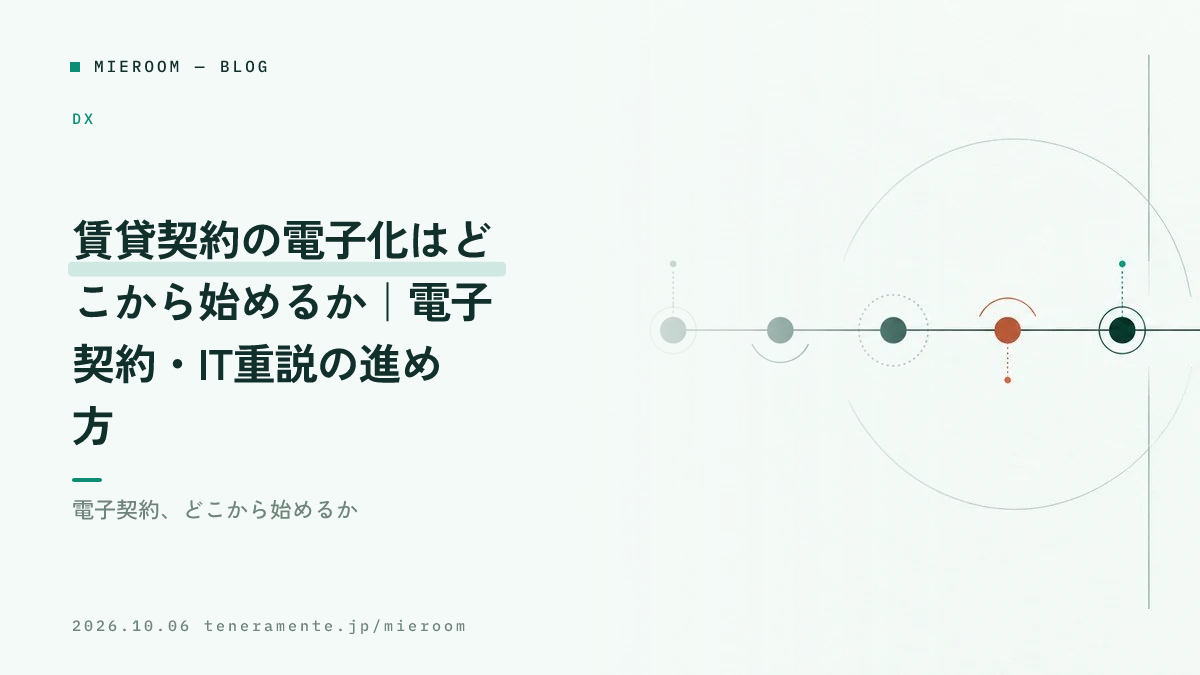
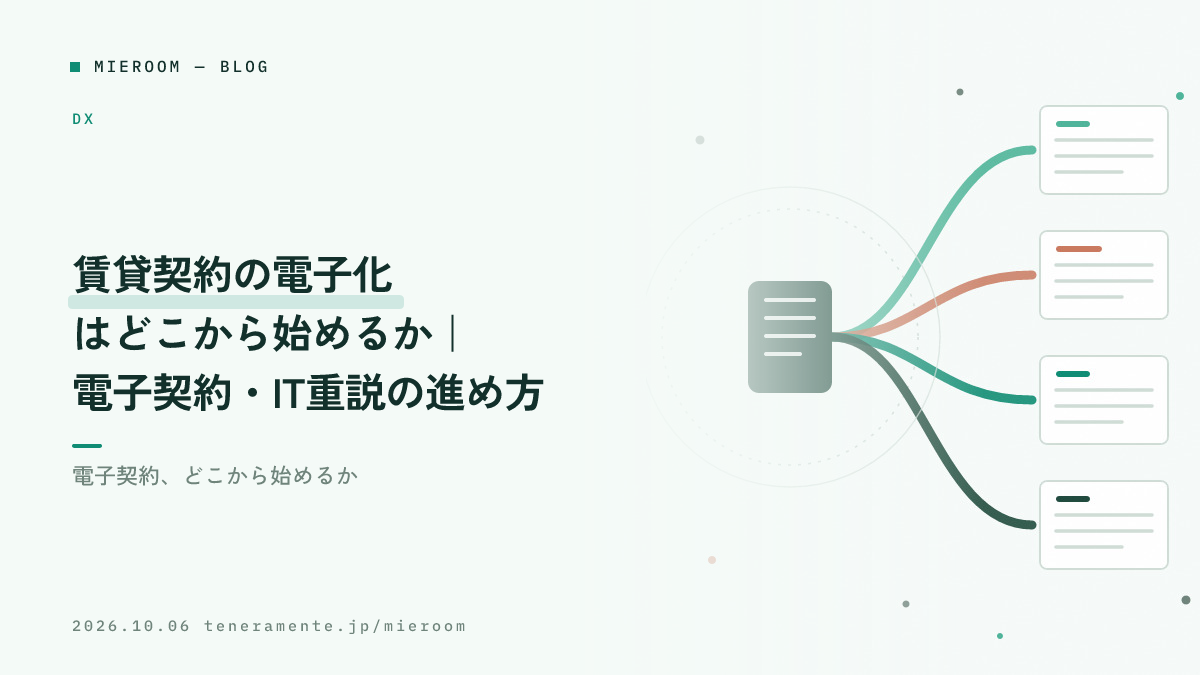
covers: 見出しの折り返しを語の切れ目でそろえ、長い見出しは字を縮めて収める
熟語・カタカナ語・かなの途中で折れたり、最終行に1文字だけ残るのを防ぐ。
先に行数を決めて各行の幅をそろえ、幅が近い候補の中から区切り記号や助詞の
あとを選ぶ。いちばん長い行が左半分に収まるまで文字の大きさを下げる。
あわせて denshi-keiyaku-donyu の背景を記事の内容に合う keiyakusho にし、
ミエルームの待ち行列に次の3件を補充した（トップ画像の在庫を作る余裕のため）。

Claude-Session: https://claude.ai/code/session_01C4qQoye4GKrNSUDt9bt3gz

diff --git a/scripts/cover-lib.js b/scripts/cover-lib.js
@@ -34,37 +34,84 @@ function textWidth(t) {
   return [...String(t)].reduce((w, c) => w + (c.charCodeAt(0) < 256 ? 0.55 : 1), 0);
 }
 
-// タイトルを最大 maxLines 行に折り返す(全角=1、半角=0.55として概算)
-// 半角英数の連続(例: 2026, Google)は途中で改行せず、行頭禁則(・、。など)も避ける
+/** 文字の種類。改行位置の良し悪しを見るのに使う */
+function charKind(ch) {
+  if (/[ぁ-ゖ]/.test(ch)) return 'hira';
+  if (/[ァ-ヺーｦ-ﾟ]/.test(ch)) return 'kata';
+  if (/[\u4E00-\u9FFF々〆]/.test(ch)) return 'kanji';
+  if (/[\x20-\x7E]/.test(ch)) return 'ascii';
+  return 'other';
+}
+
+/**
+ * 行末 prev / 行頭 next で折ったときの自然さ。大きいほど良い改行位置。
+ * 熟語・カタカナ語・かなの途中で折れるのを避け、区切り記号や助詞のあとで折る。
+ */
+function breakScore(prev, next) {
+  if (!prev || !next) return 0;
+  if ('｜|／/'.includes(prev)) return 100;
+  if ('、。，．！？'.includes(prev)) return 90;
+  if ('）」』】〉》'.includes(prev)) return 60;
+  if (prev === '・') return 10;
+  const a = charKind(prev), b = charKind(next);
+  if (a === 'hira' && b !== 'hira') return 50;
+  if (a === 'kanji' && b === 'hira') return 10;
+  if (a === 'kata' && b === 'kata') return -60;
+  if (a === 'ascii' && b === 'ascii') return -60;
+  if (a === 'kanji' && b === 'kanji') return -40;
+  if (a === 'hira' && b === 'hira') return -25;
+  return 0;
+}
+
+/**
+ * タイトルを折り返す（全角=1、半角=0.55として概算）。
+ * 先に行数を決めてから各行の幅をそろえるので、最終行に1文字だけ残らない。
+ * 幅がほぼ同じ候補が並ぶときは breakScore の高い位置、つまり語の切れ目で折る。
+ */
 function wrapTitle(title, perLine = 16, maxLines = 3) {
   const tokens = String(title).match(/[\x20-\x7E]+|./gu) || [];
-  const NO_HEAD = '・、。？！…」』】〉》）';
-  const lines = [];
-  let line = '', w = 0, truncated = false;
-  for (const tk of tokens) {
-    const tw = textWidth(tk);
-    if (w + tw > perLine && line && !NO_HEAD.includes(tk)) {
-      if (lines.length === maxLines - 1) { truncated = true; break; }
-      lines.push(line);
-      line = tk; w = tw;
-    } else {
-      line += tk; w += tw;
-    }
-  }
-  if (line) lines.push(line);
-  // 行末禁則: 開き括弧で行が終わらないように次行へ送る
+  if (!tokens.length) return [];
+  const widths = tokens.map(textWidth);
+  const total = widths.reduce((a, b) => a + b, 0);
+  const NO_HEAD = '・、。？！…」』】〉》）｜';
   const NO_TAIL = '「『【（〈《“';
-  for (let i = 0; i < lines.length - 1; i++) {
-    const cs = [...lines[i]];
-    if (cs.length > 1 && NO_TAIL.includes(cs[cs.length - 1])) {
-      lines[i] = cs.slice(0, -1).join('');
-      lines[i + 1] = cs[cs.length - 1] + lines[i + 1];
+
+  // 行数を先に決める。わずかな超過で1行増えるのを防ぐため少しだけ許容する
+  let n = 1;
+  while (n < maxLines && total / n > perLine * 1.15) n++;
+  const maxW = Math.max(perLine * 1.35, total / n);
+
+  const lines = [];
+  let i = 0;
+  for (let ln = 0; ln < n && i < tokens.length; ln++) {
+    if (ln === n - 1) { lines.push(tokens.slice(i).join('')); i = tokens.length; break; }
+    let rest = 0;
+    for (let k = i; k < tokens.length; k++) rest += widths[k];
+    const tgt = rest / (n - ln);
+    let best = -1, bestScore = -Infinity, fallback = i, w = 0;
+    for (let j = i; j < tokens.length - 1; j++) {
+      w += widths[j];
+      if (w > maxW) break;
+      fallback = j;
+      const head = tokens[j + 1][0];
+      const tail = tokens[j].slice(-1);
+      if (NO_HEAD.includes(head) || NO_TAIL.includes(tail)) continue;
+      const dev = Math.abs(w - tgt);
+      if (dev > 2.6) { if (w < tgt) continue; else break; }
+      const s = breakScore(tail, head) - dev * 12;
+      if (s > bestScore) { bestScore = s; best = j; }
     }
+    if (best < 0) best = fallback;
+    lines.push(tokens.slice(i, best + 1).join(''));
+    i = best + 1;
   }
-  if (truncated) {
-    let last = lines[lines.length - 1];
-    if (textWidth(last) + 1 > perLine) last = [...last].slice(0, -1).join('');
-    lines[lines.length - 1] = last + '…';
+
+  // 収まりきらない分は最終行を詰めて…にする
+  const last = lines.length - 1;
+  if (last >= 0 && textWidth(lines[last]) > perLine * 1.6) {
+    const cs = [...lines[last]];
+    while (cs.length > 1 && textWidth(cs.join('')) + 1 > perLine * 1.6) cs.pop();
+    lines[last] = cs.join('') + '…';
   }
   return lines;
 }

diff --git a/scripts/build-mieroom.js b/scripts/build-mieroom.js
@@ -326,7 +326,7 @@ ${tags ? `\n  <div class="post-tags">${tags}</div>` : ''}
 }
 
 // 記事テーマに合わせたカバー画像（mieroom/assets/cover-bg/*.webp）
-const COVER_BY_SLUG = {"moushikomi-kanrihyo-tsukurikata": "moushikomi", "gyomu-kaizen-tool-teichaku": "teichaku", "tenpo-muke-tool-hitsuyo-kino": "nagare", "fudosan-chukai-gyomu-kaizen-tool-donyu": "teichaku", "fudosan-kaigyo-junbi-checklist": "kaigyo", "hitori-fudosan-kaigyo-tool": "kaigyo", "fudosan-ai-katsuyo-bamen": "ai-katsuyo", "fudosan-gyomu-tool-minaoshi": "nagare", "chintai-keiyakusho-jusetsu-jitan": "keiyakusho"};
+const COVER_BY_SLUG = {"moushikomi-kanrihyo-tsukurikata": "moushikomi", "gyomu-kaizen-tool-teichaku": "teichaku", "tenpo-muke-tool-hitsuyo-kino": "nagare", "fudosan-chukai-gyomu-kaizen-tool-donyu": "teichaku", "fudosan-kaigyo-junbi-checklist": "kaigyo", "hitori-fudosan-kaigyo-tool": "kaigyo", "fudosan-ai-katsuyo-bamen": "ai-katsuyo", "fudosan-gyomu-tool-minaoshi": "nagare", "chintai-keiyakusho-jusetsu-jitan": "keiyakusho", "denshi-keiyaku-donyu": "keiyakusho"};
 const COVER_BY_CATEGORY = {"売上管理": "moushikomi", "業務効率化": "nagare", "集客・広告": "ai-katsuyo", "組織・育成": "kaigyo", "DX": "teichaku"};
 function coverName(p) { return COVER_BY_SLUG[p.slug] || COVER_BY_CATEGORY[p.category] || ''; }
 

diff --git a/scripts/cover-layouts.js b/scripts/cover-layouts.js
@@ -381,7 +381,10 @@ function topRight(o) {
 function onArtwork(o) {
   const { W, H, P, tags } = o;
   const lines = wrapTitle(o.title, 10, 4);
-  const size = lines.length >= 4 ? 43 : lines.length === 3 ? 48 : 54;
+  // 行数だけでなく、いちばん長い行が左半分に収まる大きさまで下げる
+  const widest = lines.reduce((m, l) => Math.max(m, textWidth(l)), 1);
+  const base = lines.length >= 4 ? 43 : lines.length === 3 ? 48 : 54;
+  const size = Math.max(32, Math.min(base, Math.floor(500 / widest)));
   const blockH = lines.length * size * 1.44;
   const topY = (H - blockH) / 2 + 6;
   const t = title(72, topY, lines, size, P, { markMax: 450, lh: 1.44 });
